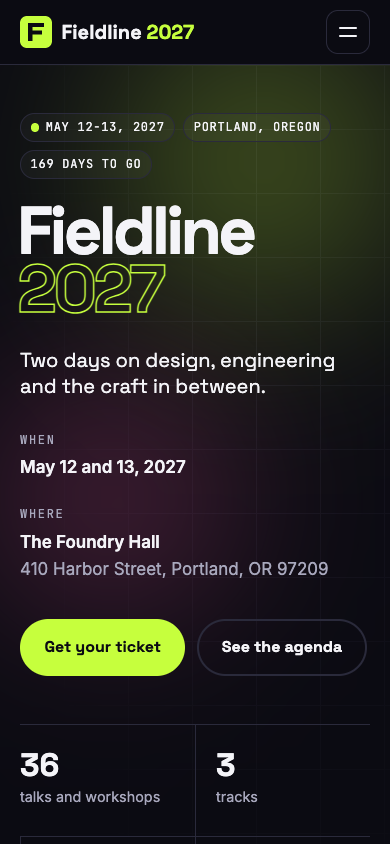
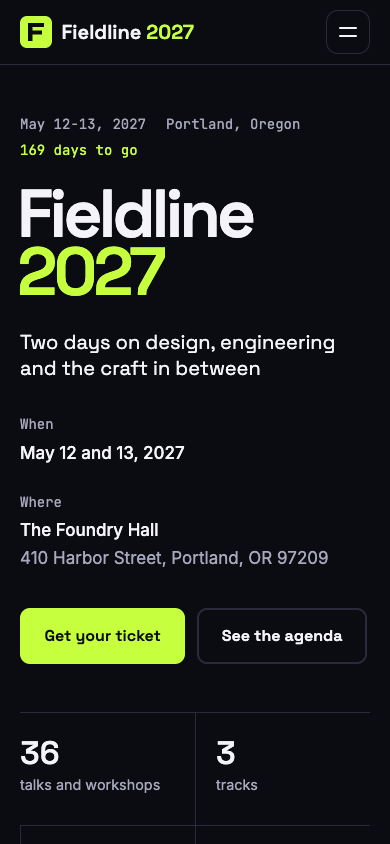
Unslop pass: no orbs or marquee, quiet date line, sentence-case mono labels, flat speaker art, calmer tickets

diff --git a/src/lib/art.ts b/src/lib/art.ts
@@ -6,7 +6,7 @@ const palettes = [
   ["#ff5ca8", "#3d0b24"],
   ["#58c7ff", "#062c42"],
   ["#ffb347", "#3d2300"],
-  ["#a98bff", "#1f1442"],
+  ["#ff7a59", "#3a1409"],
   ["#4ef0c0", "#003a2c"],
 ];
 
@@ -40,13 +40,12 @@ export function avatarSvg(name: string, label: string): string {
   const rot = (h >>> 8) % 360;
   const cx = 30 + ((h >>> 12) % 40);
   const cy = 30 + ((h >>> 16) % 40);
-  const id = `g${h.toString(36)}`;
   const shapes = [
-    `<circle cx="${cx}" cy="${cy}" r="38" fill="${accent}" opacity=".9"/><circle cx="${100 - cx}" cy="${100 - cy}" r="22" fill="none" stroke="${accent}" stroke-width="3"/>`,
+    `<circle cx="${cx}" cy="${cy}" r="38" fill="${accent}" opacity=".9"/>`,
     `<rect x="18" y="18" width="64" height="64" rx="6" fill="${accent}" opacity=".9" transform="rotate(${rot} 50 50)"/><rect x="34" y="34" width="32" height="32" fill="${deep}" transform="rotate(${rot + 20} 50 50)"/>`,
     `<path d="M0 ${cy} Q50 ${cx - 30} 100 ${cy + 10} V100 H0Z" fill="${accent}" opacity=".9"/><circle cx="${cx}" cy="28" r="12" fill="${accent}"/>`,
   ];
-  return `<svg xmlns="http://www.w3.org/2000/svg" viewBox="0 0 100 100" role="img" aria-label="${escapeXml(label)}"><title>${escapeXml(label)}</title><defs><linearGradient id="${id}" x1="0" y1="0" x2="1" y2="1"><stop offset="0" stop-color="${deep}"/><stop offset="1" stop-color="#0b0b12"/></linearGradient></defs><rect width="100" height="100" fill="url(#${id})"/>${shapes[shape]}<rect x="8" y="70" width="34" height="22" rx="6" fill="#0b0b12" opacity=".88"/><text x="25" y="86" text-anchor="middle" font-family="Space Grotesk Variable, sans-serif" font-weight="700" font-size="13" fill="#ffffff">${escapeXml(initials(name))}</text></svg>`;
+  return `<svg xmlns="http://www.w3.org/2000/svg" viewBox="0 0 100 100" role="img" aria-label="${escapeXml(label)}"><title>${escapeXml(label)}</title><rect width="100" height="100" fill="${deep}"/>${shapes[shape]}<rect x="8" y="70" width="34" height="22" rx="6" fill="#0b0b12" opacity=".88"/><text x="25" y="86" text-anchor="middle" font-family="Space Grotesk Variable, sans-serif" font-weight="600" font-size="13" fill="#ffffff">${escapeXml(initials(name))}</text></svg>`;
 }
 
 /** A simple wordmark: a geometric glyph and the company name. */
@@ -60,5 +59,5 @@ export function wordmarkSvg(name: string): string {
     `<path d="M5 31 L16 8 L27 31Z" fill="currentColor"/>`,
     `<rect x="5" y="9" width="9" height="22" rx="2" fill="currentColor"/><rect x="18" y="15" width="9" height="16" rx="2" fill="currentColor"/>`,
   ];
-  return `<svg xmlns="http://www.w3.org/2000/svg" viewBox="0 0 ${width} 40" height="40" role="img" aria-label="${escapeXml(name)} logo"><title>${escapeXml(name)}</title>${glyphs[glyph]}<text x="38" y="27" font-family="Space Grotesk Variable, sans-serif" font-weight="700" font-size="20" letter-spacing="-0.5" fill="currentColor">${escapeXml(name)}</text></svg>`;
+  return `<svg xmlns="http://www.w3.org/2000/svg" viewBox="0 0 ${width} 40" height="40" role="img" aria-label="${escapeXml(name)} logo"><title>${escapeXml(name)}</title>${glyphs[glyph]}<text x="38" y="27" font-family="Space Grotesk Variable, sans-serif" font-weight="600" font-size="20" letter-spacing="-0.5" fill="currentColor">${escapeXml(name)}</text></svg>`;
 }

diff --git a/src/styles/global.css b/src/styles/global.css
@@ -55,8 +55,12 @@ h3,
 h4 {
   font-family: var(--font-display);
   line-height: 1.05;
+  font-weight: 500;
   letter-spacing: -0.02em;
   margin: 0;
+}
+h4 {
+  letter-spacing: 0;
 }
 
 p {
@@ -78,7 +82,7 @@ p {
   color: var(--accent-ink);
   padding: 0.6rem 1rem;
   border-radius: 10px;
-  font-weight: 700;
+  font-weight: 600;
 }
 .skip:focus {
   top: 1rem;
@@ -96,19 +100,8 @@ p {
 
 .eyebrow {
   font-family: var(--font-mono);
-  font-size: 0.8rem;
-  letter-spacing: 0.14em;
-  text-transform: uppercase;
-  color: var(--accent);
-  display: inline-flex;
-  align-items: center;
-  gap: 0.6rem;
-}
-.eyebrow::before {
-  content: "";
-  width: 1.6rem;
-  height: 2px;
-  background: currentColor;
+  font-size: 0.875rem;
+  color: var(--muted);
 }
 
 .section-head {
@@ -131,22 +124,28 @@ p {
   justify-content: center;
   gap: 0.5rem;
   padding: 0.85rem 1.4rem;
-  border-radius: 999px;
-  font-weight: 700;
+  border-radius: 10px;
+  font-weight: 600;
   font-family: var(--font-display);
   font-size: 1rem;
   text-decoration: none;
   border: 2px solid transparent;
   cursor: pointer;
-  transition: transform 0.15s ease, background-color 0.15s ease, border-color 0.15s ease;
+  transition:
+    transform 0.12s cubic-bezier(0.22, 1, 0.36, 1),
+    background-color 0.16s cubic-bezier(0.22, 1, 0.36, 1),
+    border-color 0.16s cubic-bezier(0.22, 1, 0.36, 1);
   white-space: nowrap;
 }
-.btn:hover {
-  transform: translateY(-2px);
+.btn:active {
+  transform: scale(0.98);
 }
 .btn-primary {
   background: var(--accent);
   color: var(--accent-ink);
+}
+.btn-primary:hover {
+  background: #d6ff70;
 }
 .btn-ghost {
   border-color: var(--line);
@@ -163,10 +162,8 @@ p {
   gap: 0.4rem;
   font-family: var(--font-mono);
   font-size: 0.75rem;
-  letter-spacing: 0.06em;
-  text-transform: uppercase;
-  padding: 0.25rem 0.6rem;
-  border-radius: 999px;
+  padding: 0.2rem 0.5rem;
+  border-radius: 6px;
   border: 1px solid var(--line);
   color: var(--muted);
 }

diff --git a/src/data/event.ts b/src/data/event.ts
@@ -5,7 +5,7 @@
 export const event = {
   name: "Fieldline",
   edition: "2027",
-  tagline: "Two days on design, engineering and the craft in between.",
+  tagline: "Two days on design, engineering and the craft in between",
   description:
     "Fieldline is a two-day conference for designers and engineers who build products together. Talks, hands-on workshops and long hallway conversations in Portland, Oregon.",
   // Shown in the hero and used for the "days to go" counter (ISO date, local start time).

diff --git a/UNSLOP.md b/UNSLOP.md
@@ -1,0 +1,39 @@
+# Unslop pass (November 24, 2026)
+
+Done with the unslop skill by Damir Sokolovsky (@heydamir), CC BY 4.0.
+
+## Audit
+
+Medium slop on a strong base (dark stage, lime brand, Space Grotesk, a printed attendee badge). Signs found:
+
+- Blurred lime and pink orbs and a glowing grid behind the hero (`src/components/Hero.astro`)
+- Pill chips above the headline (date, city, days to go)
+- A looping marquee of uppercase topics in a full-width lime band, and a badge that sways forever
+- Outlined (stroke-only) "2027" in the headline
+- Uppercase tracked mono labels everywhere: eyebrows with a decorative dash (`src/styles/global.css`), hero facts, badge label, ticket notes, speaker companies, hotel distances, sponsor tiers, chips
+- 700 weights on the headline, stats, prices, buttons, day tabs, sponsor pitch and links
+- The featured ticket with a lime-to-green gradient, a 2px neon border and a lime glow shadow
+- Speaker portraits on dark gradients with extra outline rings, in six hues including purple
+- Pill buttons, day tabs and track filters; buttons and speaker cards lifting on hover
+- Striped backgrounds on break and social rows in the agenda
+- An exclamation mark in the contact form's thank-you message; trailing period on the tagline
+
+## Direction
+
+- Product: a two-day Portland conference for people working between design and engineering
+- Character: loud, practical, a little nerdy
+- World: a converted foundry hall on conference morning; lanyards, printed badges, stage light, the program booklet
+- Moments: the attendee badge on its lanyard in the hero, and the agenda's track colors
+- Signature: badge-print mono for dates, times, places and small labels, in sentence case like a printed program
+
+## Changes
+
+- Color: orbs, grid and striped rows removed; featured ticket is a raised surface with a 1px lime hairline and no glow; lime kept for the year, primary actions, the countdown and the featured tier
+- Copy: date, city and days to go are one quiet mono line instead of pills; tagline without a period; no exclamation marks
+- Type: sentence-case mono labels with no tracking; the eyebrow dash removed; headings 500 to 600, stats and prices 500 with tabular figures; "2027" filled in lime instead of outlined
+- Details: buttons and tabs 10px, filters 8px, chips 6px; speaker portraits on flat deep tones, one shape each, purple swapped for an ember red
+- Layout: the marquee became a static topics row under the stats
+- Motion: no sway, no marquee, no hover lift; a small press scale on buttons and color changes on one easing curve
+
+screenshot-2: Agenda with day tabs, track filters and Day 1
+screenshot-3: Tickets
